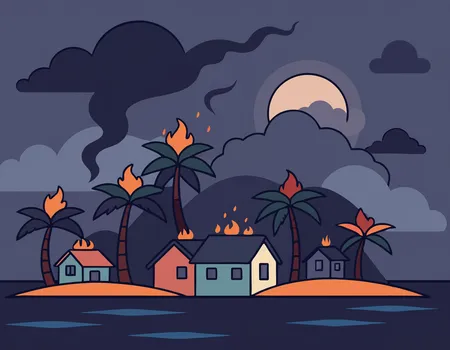
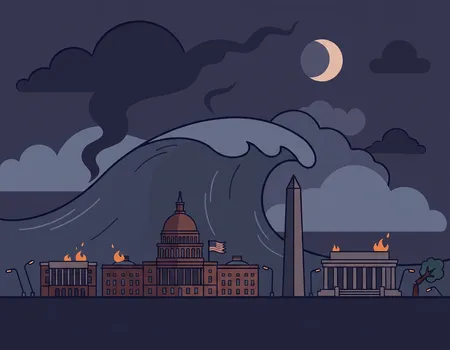
add articles

diff --git a/index.html b/index.html
@@ -33,21 +33,136 @@
     </nav>
   </header>
 
-  <main>
+  <main id="frontpage">
     <!-- Sektion med logo -->
+    <div id="top-section-wrapper">
 
-    <section id="top-section">
-      <img src="img/Logo.svg" alt="logo">
+      <section id="top-section">
+        <img class="logo" src="img/Logo.svg" alt="logo">
+        <div>
+          <h1>THE WORLD IS ENDING!</h1>
+          <p>Can/Will you survive?</p>
+        </div>
+      </section>
+    </div>
+
+    <div id="art-news-wrapper">
+      <!-- Sektion med artikler -->
       <div>
-        <h1>THE WORLD IS ENDING!</h1>
-        <p>Can you somehow survive it?</p>
+        <div>
+          <article id="left-side">
+            <div>
+              <img src="img/infografik.svg" alt="infografik">
+            </div>
+            <div>
+              <h2>Survival Guide</h2>
+              <p>Wondering what will happen to your country?</p>
+              <p>How is this </p>
+              <a href="instruction.html">Click here and find out</a>
+            </div>
+          </article>
+        </div>
+
+
+        <article id="left-side2">
+          <div>
+            <img src="img/Logo.svg" alt="logo">
+          </div>
+          <div>
+            <h2>Sign Up</h2>
+            <p>want a chance to get tickets?</p>
+            <a href="register.html">Click her and fill the form</a>
+          </div>
+        </article>
       </div>
-    </section>
-    <!-- Sektion med artikler -->
 
-    <!-- Section med breaking news -->
 
-    <!-- Sektion med accordin -->
+      <!-- Section med breaking news -->
+      <div>
+        <div>
+          <article id="news_card1">
+            <h2>BREAKING NEWS!</h2>
+            <h3>Hawaii goes up in flames</h3>
+            <img src="img/Hawaii.webp" alt="Hawaii">
+            <p>Read more about this important news</p>
+            <button popovertarget="news_popover1">Read more</button>
+          </article>
+        </div>
+
+        <!-- Nyheden -->
+        <div id="news_popover1" popover>
+          <button popovertarget="news_popover1">Luk</button>
+          <h4>Hawaii Devastated by Unprecedented Volcanic Eruptions and Tsunamis</h4>
+          <time class="newsDate">15. April 2025 - KL. 20:14</time>
+
+          <img src="img/Hawaii.webp" alt="Hawaii burning" />
+          <p>
+            Hawaii has been struck by a catastrophic wave of natural disasters, leaving widespread destruction across
+            the islands and thousands feared displaced.
+          </p>
+          <p>
+            Early yesterday morning, residents reported unusual ocean activity as waters receded dramatically along
+            the
+            coastline. Within hours, powerful earthquakes shook the region, triggering simultaneous volcanic
+            eruptions—most notably at Kīlauea, where massive lava flows rapidly engulfed nearby communities.
+          </p>
+          <p>
+            Authorities struggled to respond as ash clouds darkened the sky and infrastructure began to fail. Major
+            roads became impassable, and emergency services were overwhelmed by the scale of the crisis.
+            The situation worsened when seismic activity beneath the Pacific Ocean generated large tsunami waves that
+            struck coastal areas, destroying buildings and sweeping inland. In Honolulu, entire districts were
+            severely
+            damaged as floodwaters collided with advancing lava flows, creating hazardous steam explosions.
+            Officials have urged immediate evacuation where possible, though options remain limited due to ongoing
+            volcanic activity and damaged transport routes.
+          </p>
+          <p>
+            Experts describe the event as highly unusual, with multiple geological systems erupting at once. While
+            rescue efforts are underway, the full extent of the damage—and the potential loss of life—remains unclear.
+            Authorities continue to monitor the situation as aftershocks and eruptions persist.
+          </p>
+        </div>
+        <article id="news_card2">
+          <h3>Washington DC - President dead</h3>
+          <img src="img/Washington.webp" alt="Washington DC">
+          <p>Read more about this important news</p>
+          <button popovertarget="news_popover2">Read more</button>
+        </article>
+
+        <div id="news_popover2" popover>
+          <button popovertarget="news_popover2">Luk</button>
+          <h4>Massive Tsunami Devastates Washington Coast, Floodwaters Reach Inland Cities</h4>
+          <time class="newsDate">15. April 2025 - KL. 21:04</time>
+          <img src="img/Washington.webp" alt="Washinton DC" />
+          <p>
+            Washington State has been struck by a powerful tsunami following intense seismic activity off the Pacific
+            coast, causing widespread destruction and forcing mass evacuations.
+          </p>
+          <p>
+            The event began early this morning with a huge offshore earthquake that triggered immediate tsunami
+            warnings. Coastal communities had only minutes to react before waves—some towering over buildings—crashed
+            ashore, sweeping away homes, vehicles, and infrastructure.
+          </p>
+          <p>
+            Emergency sirens sounded across cities including Seattle, but evacuation efforts were hampered by traffic
+            congestion and limited escape routes. Eyewitnesses described walls of water surging through streets,
+            overwhelming waterfront districts and pushing far beyond expected flood zones.
+            Authorities report that the tsunami continued inland via rivers and low-lying areas, flooding neighborhoods
+            and crippling power and communication systems. In several areas, buildings were uprooted or submerged
+            entirely.
+          </p>
+          <p>
+            Rescue operations are underway, though officials warn conditions remain dangerous due to strong currents,
+            debris, and potential aftershocks. Residents have been urged to move to higher ground and avoid coastal
+            regions.
+            Experts say the scale and reach of the tsunami are unprecedented for the region, raising concerns about
+            long-term impacts on infrastructure and communities.
+            The full extent of casualties and damage is still being assessed as emergency crews continue search and
+            rescue efforts.
+          </p>
+        </div>
+      </div>
+      <!-- Sektion med accordin -->
   </main>
 
   <footer>
@@ -75,3 +190,7 @@
 </body>
 
 </html>
+
+<!-- <button popovertarget="popup">Open popup</button>
+
+</div>p -->

diff --git a/css/forside.css b/css/forside.css
@@ -1,4 +1,123 @@
+#art-news-wrapper {
+  display: grid;
+  grid-template-columns: 4fr 3fr;
+}
 #top-section {
   display: grid;
   grid-template-columns: 1fr 5fr;
+  align-items: center;
+  gap: 1rem;
+  margin: 2rem auto;
+}
+#top-section-wrapper {
+  background-color: var(--color-head-bg);
+  p {
+    color: var(--color-text-inverted);
+  }
+}
+#left-side {
+  display: grid;
+  grid-template-columns: 1fr 3fr;
+  background-color: var(--color-card-bg);
+  border-radius: 20px;
+  padding: 1rem 0;
+  margin: 5px;
+  height: 15em;
+}
+h2 {
+  background-color: var(--color-cta-card-bg);
+  padding: 15px;
+  font-size: 1.5rem;
+}
+#left-side2 {
+  display: grid;
+  grid-template-columns: 1fr 3fr;
+  background-color: var(--color-card-bg);
+  border-radius: 20px;
+  padding: 1rem 0;
+  margin: 5px;
+  height: 15em;
+}
+
+#left-side a,
+#left-side2 a {
+  background-color: var(--color-cta-card-bg);
+  border-radius: 20px;
+  padding: 10px;
+  margin: 5px;
+  color: black;
+  list-style: none;
+  text-decoration: none;
+}
+/* popover css */
+[popover] {
+  padding: 1rem;
+
+  max-height: 40rem;
+  max-width: 40rem;
+  width: 40rem;
+}
+
+[popover] button {
+  position: sticky;
+  top: 0;
+  justify-self: end;
+}
+
+:popover-open {
+  display: grid;
+  align-self: center;
+  background-color: var(--color-cta-card-bg);
+}
+
+::backdrop {
+  background: #0001;
+}
+
+[popover] {
+  opacity: 0;
+  transition: 1s allow-discrete;
+}
+
+:popover-open {
+  opacity: 1;
+}
+
+@starting-style {
+  :popover-open {
+    opacity: 0;
+  }
+}
+
+::backdrop {
+  background: 0001;
+  opacity: 0;
+  transition: 1s allow-discrete;
+}
+
+:popover-open::backdrop {
+  opacity: 1;
+}
+
+@starting-style {
+  :popover-open::backdrop {
+    opacity: 0;
+  }
+}
+#news_card1,
+#news_card2,
+#news_card3 {
+  background-color: var(--color-card-bg);
+  border-radius: 20px;
+  margin: 5px;
+  padding: 1rem;
+  max-width: 20rem;
+}
+#art-news-wrapper button {
+  border-radius: 15px;
+  padding: 5px;
+  align-self: center;
+}
+#frontpage h1 {
+  font-size: 2em;
 }
